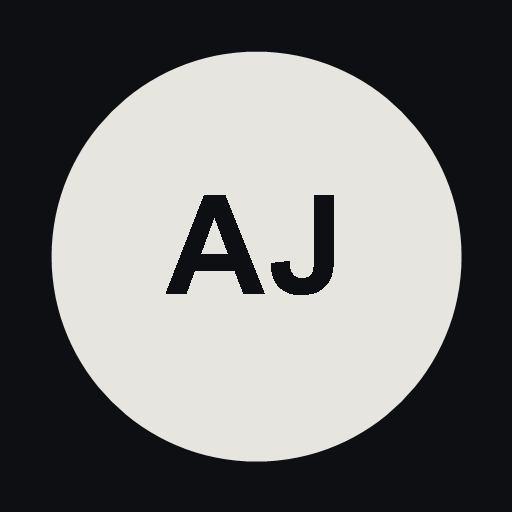
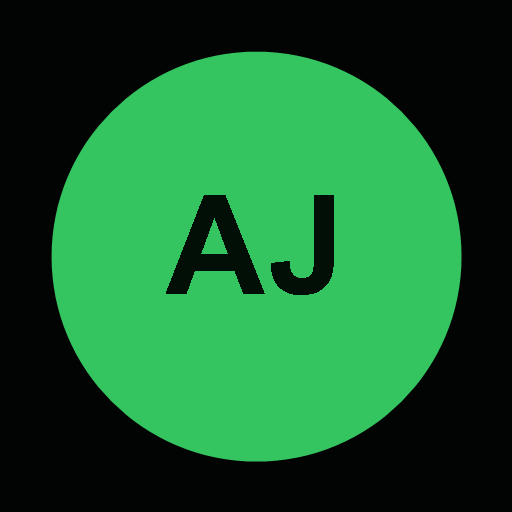
Adopt black and emerald visual theme

diff --git a/app/globals.css b/app/globals.css
@@ -1,54 +1,61 @@
 @import "tailwindcss";
 
-:root { --paper:#0d0f12; --surface:#14171c; --ink:#e7e5df; --muted:#858991; --line:#292d34; }
+:root { --bg:#020403; --panel:#07120b; --panel-2:#0a180f; --ink:#f5f7f5; --muted:#89918c; --line:#15301e; --green:#35c560; --green-soft:#153d22; }
 * { box-sizing:border-box; }
-html { background:var(--paper); }
-body { margin:0; background:var(--paper); color:var(--ink); font-family:Arial, Helvetica, sans-serif; }
+html { background:var(--bg); }
+body { margin:0; background:var(--bg); color:var(--ink); font-family:Arial,Helvetica,sans-serif; }
 a { color:inherit; text-decoration:none; }
-main { min-height:100vh; max-width:1440px; margin:auto; padding:0 42px; position:relative; overflow:hidden; }
-.ambient { position:absolute; border-radius:999px; filter:blur(70px); opacity:.16; pointer-events:none; }
-.ambient.one { width:360px; height:360px; background:#d2795b; top:-220px; left:19%; }
-.ambient.two { width:300px; height:300px; background:#5278b5; right:-180px; top:38%; }
-.topbar { height:86px; border-bottom:1px solid var(--line); display:grid; grid-template-columns:1fr auto 1fr; align-items:center; position:relative; z-index:1; }
+main { min-height:100vh; max-width:1440px; margin:auto; padding:0 48px; position:relative; overflow:hidden; isolation:isolate; }
+main:before,main:after { content:""; position:absolute; z-index:-2; pointer-events:none; }
+main:before { width:900px; height:520px; top:-230px; left:8%; background:linear-gradient(145deg,rgba(28,76,42,.38),rgba(2,4,3,0) 68%); clip-path:polygon(16% 0,100% 0,74% 100%,0 38%); }
+main:after { width:780px; height:520px; top:170px; right:-240px; background:linear-gradient(135deg,rgba(20,62,34,.25),rgba(2,4,3,0)); clip-path:polygon(38% 0,100% 30%,72% 100%,0 68%); }
+.ambient { position:absolute; pointer-events:none; z-index:-1; }
+.ambient.one { width:500px; height:500px; background:#164328; filter:blur(130px); opacity:.18; top:-280px; left:42%; }
+.ambient.two { width:360px; height:360px; background:#1ca149; filter:blur(150px); opacity:.09; right:-140px; top:45%; }
+.topbar { height:88px; border-bottom:1px solid #132018; display:grid; grid-template-columns:1fr auto 1fr; align-items:center; position:relative; z-index:1; }
 .brand { font-size:20px; font-weight:900; letter-spacing:-1px; }
-.brand span { display:inline-grid; place-items:center; background:#e7e5df; color:#0d0f12; width:34px; height:34px; margin-right:7px; border-radius:50%; font-size:14px; letter-spacing:0; }
-.date,.status,.eyebrow,.section-heading span,footer { font:700 10px/1 var(--font-geist-mono), monospace; letter-spacing:.13em; text-transform:uppercase; }
-.date { color:var(--muted); }
-.status { justify-self:end; display:flex; align-items:center; gap:8px; }
-.status i { width:7px; height:7px; border-radius:50%; background:#70b77a; box-shadow:0 0 0 4px rgba(112,183,122,.14); }
-.hero { min-height:245px; display:flex; align-items:flex-end; justify-content:space-between; padding:48px 0 34px; }
-.eyebrow { color:var(--muted); margin:0 0 15px; }
-h1 { font-size:clamp(54px,8vw,116px); line-height:.85; letter-spacing:-.075em; margin:0; font-weight:800; }
-.hero time { font:400 clamp(24px,4vw,56px)/1 var(--font-geist-mono), monospace; letter-spacing:-.08em; }
-.search { height:78px; border:1px solid #3a404a; background:var(--surface); display:grid; grid-template-columns:auto 1fr auto; align-items:center; gap:18px; padding:0 22px; box-shadow:0 16px 50px rgba(0,0,0,.28); }
-.search-icon { font-size:34px; transform:rotate(-15deg); line-height:1; }
-.search input { min-width:0; border:0; background:transparent; font-size:18px; outline:0; color:var(--ink); }
-.search input::placeholder { color:#646a74; }
-kbd { border:1px solid #373c45; background:#20242a; color:#aeb2b9; padding:7px 10px; border-radius:4px; font:700 12px var(--font-geist-mono),monospace; }
-.launch-section { margin-top:64px; }
-.section-heading { display:flex; justify-content:space-between; align-items:baseline; border-bottom:1px solid var(--line); padding-bottom:12px; }
-.section-heading h2 { margin:0; font-size:18px; letter-spacing:-.04em; }
-.section-heading span { color:var(--muted); }
-.launch-grid { display:grid; grid-template-columns:repeat(5,1fr); border-left:1px solid var(--line); }
-.launch-card { min-height:190px; padding:16px; border-right:1px solid var(--line); border-bottom:1px solid var(--line); position:relative; display:flex; flex-direction:column; justify-content:space-between; transition:transform .18s, background .18s, border-color .18s; background:rgba(255,255,255,.015); }
-.launch-card:hover { transform:translateY(-4px); background:#171b20; border-color:#414750; z-index:2; }
-.number { font:600 10px var(--font-geist-mono),monospace; color:var(--muted); }
-.tile-icon { width:54px; height:54px; display:grid; place-items:center; border-radius:16px; font-size:21px; font-weight:900; align-self:center; color:#eceae4; box-shadow:inset 0 0 0 1px rgba(255,255,255,.08); }
-.coral .tile-icon{background:#713f37}.blue .tile-icon{background:#334d73}.ink .tile-icon{background:#292d34}.green .tile-icon{background:#365741}.yellow .tile-icon{background:#6a5428}
-.launch-card strong { font-size:16px; }
-.arrow { position:absolute; right:15px; bottom:15px; font-size:18px; }
-.lower-grid { display:grid; grid-template-columns:1.45fr 1fr; gap:52px; margin-top:58px; }
-.project-body { display:grid; grid-template-columns:150px 1fr; gap:30px; align-items:center; padding:30px 0; }
-.orbit { width:130px; height:130px; border:1px solid var(--ink); border-radius:50%; display:grid; place-items:center; position:relative; }
-.orbit:after { content:""; position:absolute; width:13px; height:13px; background:#ca755e; border-radius:50%; top:5px; left:20px; box-shadow:0 0 0 5px var(--paper); }
-.orbit span { width:72px; height:72px; background:#e7e5df; color:#0d0f12; border-radius:50%; display:grid; place-items:center; font-size:25px; font-weight:900; }
+.brand span { display:inline-grid; place-items:center; background:var(--green); color:#001706; width:36px; height:36px; margin-right:8px; border-radius:7px; font-size:14px; letter-spacing:0; box-shadow:0 0 26px rgba(53,197,96,.2); }
+.date,.status,.eyebrow,.section-heading span,footer { font:700 10px/1 var(--font-geist-mono),monospace; letter-spacing:.13em; text-transform:uppercase; }
+.date,.eyebrow,.section-heading span,footer { color:var(--muted); }
+.status { justify-self:end; display:flex; align-items:center; gap:8px; color:#a7dcb6; }
+.status i { width:7px; height:7px; border-radius:50%; background:var(--green); box-shadow:0 0 12px var(--green); }
+.hero { min-height:250px; display:flex; align-items:flex-end; justify-content:space-between; padding:50px 0 36px; }
+.eyebrow { margin:0 0 15px; color:#52d879; }
+h1 { font-size:clamp(54px,8vw,112px); line-height:.86; letter-spacing:-.07em; margin:0; font-weight:800; text-shadow:0 5px 40px rgba(0,0,0,.7); }
+.hero time { font:500 clamp(24px,4vw,54px)/1 var(--font-geist-mono),monospace; letter-spacing:-.08em; color:#dce2de; }
+.search { height:78px; border:1px solid #1d4b2b; background:linear-gradient(110deg,rgba(10,27,15,.97),rgba(5,13,8,.97)); display:grid; grid-template-columns:auto 1fr auto; align-items:center; gap:18px; padding:0 22px; border-radius:8px; box-shadow:0 22px 65px rgba(0,0,0,.52),inset 0 1px rgba(255,255,255,.025); }
+.search:focus-within { border-color:#38b65c; box-shadow:0 0 0 3px rgba(53,197,96,.09),0 22px 65px rgba(0,0,0,.52); }
+.search-icon { font-size:34px; color:var(--green); transform:rotate(-15deg); line-height:1; }
+.search input { min-width:0; border:0; background:transparent; font-size:17px; outline:0; color:var(--ink); }
+.search input::placeholder { color:#657069; }
+kbd { border:1px solid #25452e; background:#0c1c11; color:#8ec69e; padding:7px 10px; border-radius:4px; font:700 12px var(--font-geist-mono),monospace; }
+.launch-section { margin-top:62px; }
+.section-heading { display:flex; justify-content:space-between; align-items:baseline; border-bottom:1px solid #15241a; padding-bottom:13px; }
+.section-heading h2 { margin:0; font-size:18px; letter-spacing:-.035em; }
+.launch-grid { display:grid; grid-template-columns:repeat(5,1fr); gap:12px; padding-top:14px; }
+.launch-card { min-height:190px; padding:17px; border:1px solid #14291b; border-radius:9px; position:relative; display:flex; flex-direction:column; justify-content:space-between; transition:transform .2s,background .2s,border-color .2s,box-shadow .2s; background:linear-gradient(145deg,rgba(9,25,14,.92),rgba(5,10,7,.96)); overflow:hidden; }
+.launch-card:before { content:""; position:absolute; inset:0; background:linear-gradient(130deg,rgba(53,197,96,.08),transparent 42%); opacity:0; transition:opacity .2s; }
+.launch-card:hover { transform:translateY(-5px); background:#09170e; border-color:#26783d; box-shadow:0 15px 40px rgba(0,0,0,.45),0 0 28px rgba(40,170,77,.08); }
+.launch-card:hover:before { opacity:1; }
+.number { font:600 10px var(--font-geist-mono),monospace; color:#587060; position:relative; }
+.tile-icon { width:54px; height:54px; display:grid; place-items:center; border-radius:50%; font-size:20px; font-weight:900; align-self:center; color:#061009; background:var(--green)!important; box-shadow:0 0 24px rgba(53,197,96,.16),inset 0 1px rgba(255,255,255,.28); position:relative; }
+.launch-card strong { font-size:16px; position:relative; }
+.arrow { position:absolute; right:16px; bottom:16px; font-size:18px; color:var(--green); }
+.lower-grid { display:grid; grid-template-columns:1.45fr 1fr; gap:22px; margin-top:54px; }
+.project-card,.commands { border:1px solid #14291b; border-radius:9px; padding:24px; background:linear-gradient(140deg,rgba(8,23,13,.88),rgba(4,9,6,.94)); }
+.project-body { display:grid; grid-template-columns:150px 1fr; gap:30px; align-items:center; padding:30px 0 6px; }
+.orbit { width:130px; height:130px; border:1px solid #276e3b; border-radius:50%; display:grid; place-items:center; position:relative; box-shadow:inset 0 0 35px rgba(36,143,66,.08); }
+.orbit:before { content:""; position:absolute; inset:12px; border:1px dashed #1e4b2c; border-radius:50%; }
+.orbit:after { content:""; position:absolute; width:12px; height:12px; background:var(--green); border-radius:50%; top:4px; left:21px; box-shadow:0 0 15px var(--green); }
+.orbit span { width:70px; height:70px; background:var(--green); color:#041008; border-radius:50%; display:grid; place-items:center; font-size:25px; font-weight:900; box-shadow:0 0 30px rgba(53,197,96,.18); }
 .project-body p { max-width:420px; font-size:23px; letter-spacing:-.035em; line-height:1.2; margin:0 0 22px; }
-.project-body a { font:700 11px var(--font-geist-mono),monospace; text-transform:uppercase; border-bottom:1px solid; padding-bottom:4px; }
+.project-body a { color:#64da83; font:700 11px var(--font-geist-mono),monospace; text-transform:uppercase; border-bottom:1px solid #287840; padding-bottom:4px; }
 .commands ul { margin:0; padding:10px 0 0; list-style:none; }
-.commands li { display:grid; grid-template-columns:50px 1fr auto; gap:14px; padding:14px 0; align-items:center; border-bottom:1px solid var(--line); font-size:13px; }
-.commands code { background:#252a31; color:#dddcd7; border:1px solid #383e47; width:36px; height:28px; display:grid; place-items:center; border-radius:3px; font-weight:bold; }
-.commands b { color:var(--muted); font-weight:400; }
-footer { border-top:1px solid var(--line); padding:25px 0 32px; margin-top:45px; display:flex; justify-content:space-between; color:var(--muted); }
-@media(max-width:800px){main{padding:0 20px}.topbar{grid-template-columns:1fr auto}.date{display:none}.hero{min-height:210px;align-items:end}.hero time{font-size:24px}.launch-grid{grid-template-columns:repeat(2,1fr)}.launch-card:last-child{grid-column:span 2}.lower-grid{grid-template-columns:1fr;gap:28px}.project-body{grid-template-columns:95px 1fr}.orbit{width:90px;height:90px}.orbit span{width:52px;height:52px}.project-body p{font-size:18px}}
-@media(max-width:500px){h1{font-size:52px}.hero{display:block;padding-top:55px}.hero time{display:block;margin-top:22px}.search{height:66px;padding:0 15px;gap:10px}.search input{font-size:14px}.search-icon{font-size:25px}.launch-section{margin-top:48px}.launch-card{min-height:150px}.project-body{grid-template-columns:1fr}.commands li{grid-template-columns:44px 1fr}.commands b{display:none}footer{gap:20px;line-height:1.4}}
+.commands li { display:grid; grid-template-columns:50px 1fr auto; gap:14px; padding:14px 0; align-items:center; border-bottom:1px solid #14251a; font-size:13px; }
+.commands li:last-child { border-bottom:0; }
+.commands code { background:var(--green); color:#051008; width:36px; height:28px; display:grid; place-items:center; border-radius:4px; font-weight:bold; }
+.commands b { color:#647069; font-weight:400; }
+footer { border-top:1px solid #142018; padding:25px 0 32px; margin-top:45px; display:flex; justify-content:space-between; }
+@media(max-width:800px){main{padding:0 20px}.topbar{grid-template-columns:1fr auto}.date{display:none}.hero{min-height:210px;align-items:end}.hero time{font-size:24px}.launch-grid{grid-template-columns:repeat(2,1fr)}.launch-card:last-child{grid-column:span 2}.lower-grid{grid-template-columns:1fr}.project-body{grid-template-columns:95px 1fr}.orbit{width:90px;height:90px}.orbit span{width:52px;height:52px}.project-body p{font-size:18px}}
+@media(max-width:500px){h1{font-size:52px}.hero{display:block;padding-top:55px}.hero time{display:block;margin-top:22px}.search{height:66px;padding:0 15px;gap:10px}.search input{font-size:14px}.search-icon{font-size:25px}.launch-section{margin-top:48px}.launch-card{min-height:150px}.project-card,.commands{padding:18px}.project-body{grid-template-columns:1fr}.commands li{grid-template-columns:44px 1fr}.commands b{display:none}footer{gap:20px;line-height:1.4}}
 @media(prefers-reduced-motion:reduce){*{scroll-behavior:auto!important;transition:none!important}}

diff --git a/app/layout.tsx b/app/layout.tsx
@@ -7,7 +7,7 @@ const geistSans = Geist({ variable: "--font-geist-sans", subsets: ["latin"] });
 const geistMono = Geist_Mono({ variable: "--font-geist-mono", subsets: ["latin"] });
 
 export const viewport: Viewport = {
-  themeColor: "#0d0f12",
+  themeColor: "#020403",
   width: "device-width",
   initialScale: 1,
   viewportFit: "cover",

diff --git a/public/sw.js b/public/sw.js
@@ -1,4 +1,4 @@
-const CACHE = "aj-hub-v2";
+const CACHE = "aj-hub-v3";
 const CORE = ["/", "/manifest.webmanifest", "/icon-192.png", "/icon-512.png"];
 
 self.addEventListener("install", (event) => {
